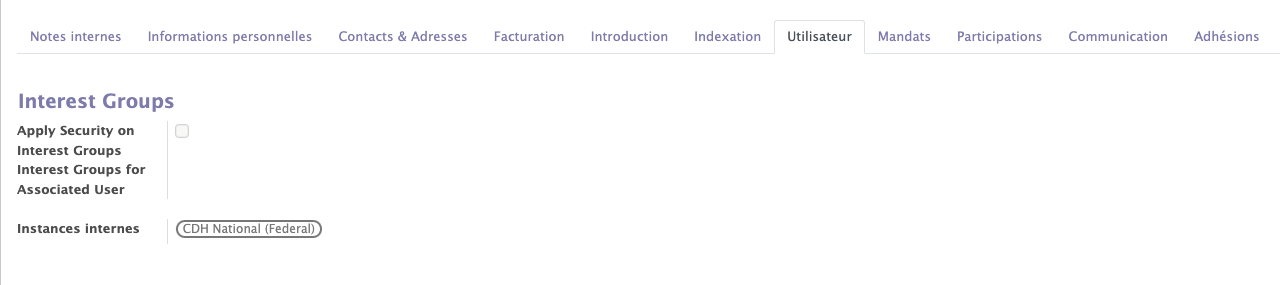
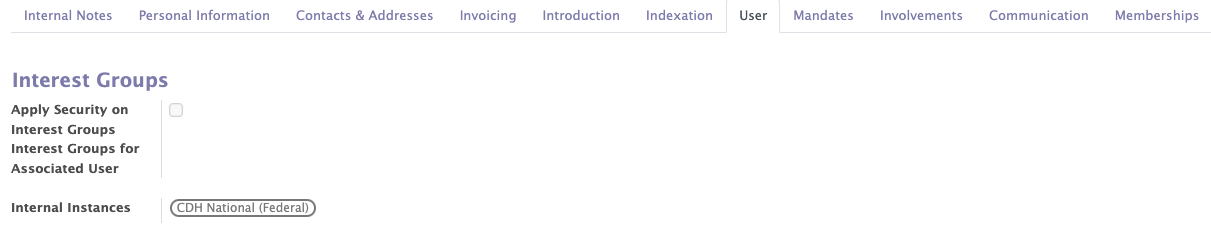
acces rules modif

diff --git a/docs/Contacts Module.md b/docs/Contacts Module.md
@@ -21,7 +21,7 @@ Various informations are collected when a contact of a physical and moral person
 !!! abstract "Adresse"
 
     The encoding of addresses on the contact form is facilitated by the auto-completion fonctinnnality that the system provides. This fonctionnnality allows you to choose the city and the street from a list of predefined choices. This system allows to avoid encoding errors and also to detect duplicates. 
-    Depending on their address, the organisation's contacts are associated with a local group/instance. When the address changes, the instance of the contact will also change.
+    Depending on their address, the organization's contacts are associated with a local group/instance. When the address changes, the instance of the contact will also change.
     !!! example
     
         A contact whose address is located in Huy will belong to the Huy local group if the address of a party member is changed, a function can be selected to automatically change the local group member. If a member moves from Brussels to Namur. Then his local group will change from Brussels to Namur.
@@ -58,14 +58,28 @@ When two people have the same address, the system detects a duplicate (screensho
 
 ## Access Rules
 
-A member working for the political party can be designated as a user. He is given an ID, a role and an internal instance. Depending on his role and internal instance the user will be granted access to certain functionalities in Odoo. For example, a user who is part of the national committee will have access to all contacts. A user who was part of a local committee will only have access to the contacts of his local group.
+This fonctionnality allow you to transform a conctatc who is working for the organizatoin into a user of Mozaik. He is given an ID, a role and an internal instance. 
+
+!!! abstract "The goal of access rules"
+
+   This feature allows you to give different access to your user contacts in Mozaik depending on the internal instance they receive when they are transformed into a user.
+    !!!example
+    
+        A user who is part of the national committee will have access to all contacts. A user who was part of a local committee will only have access to the contacts of his local group.
 
 ??? tip
 
     To turn a contact into a user, click on the "action" button then click on "transform into user"
 
+<figure markdown>
 ![screenshot 5](img/screen5.png)
+<figcaption>Transformation of a contact into a user</figcaption>
+</figure>
+
+<figure markdown>
 ![screenshot 6](img/screen6.png)
+<figcaption>Information of a contact user on the contact form</figcaption>
+</figure>
 
 ## Indexation
 
